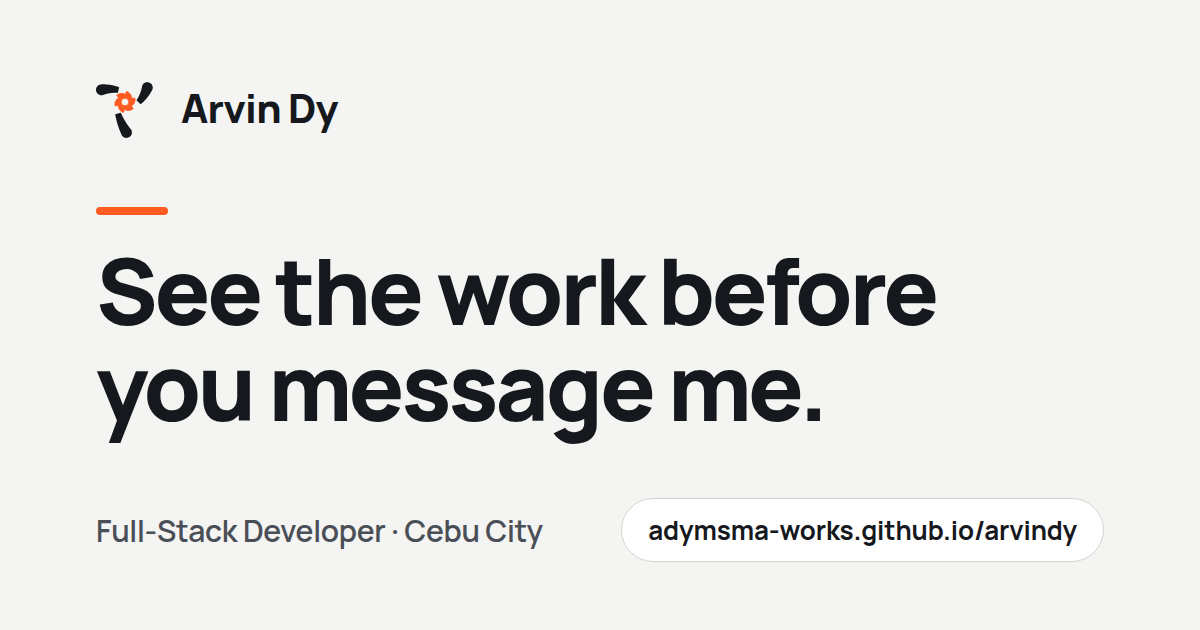
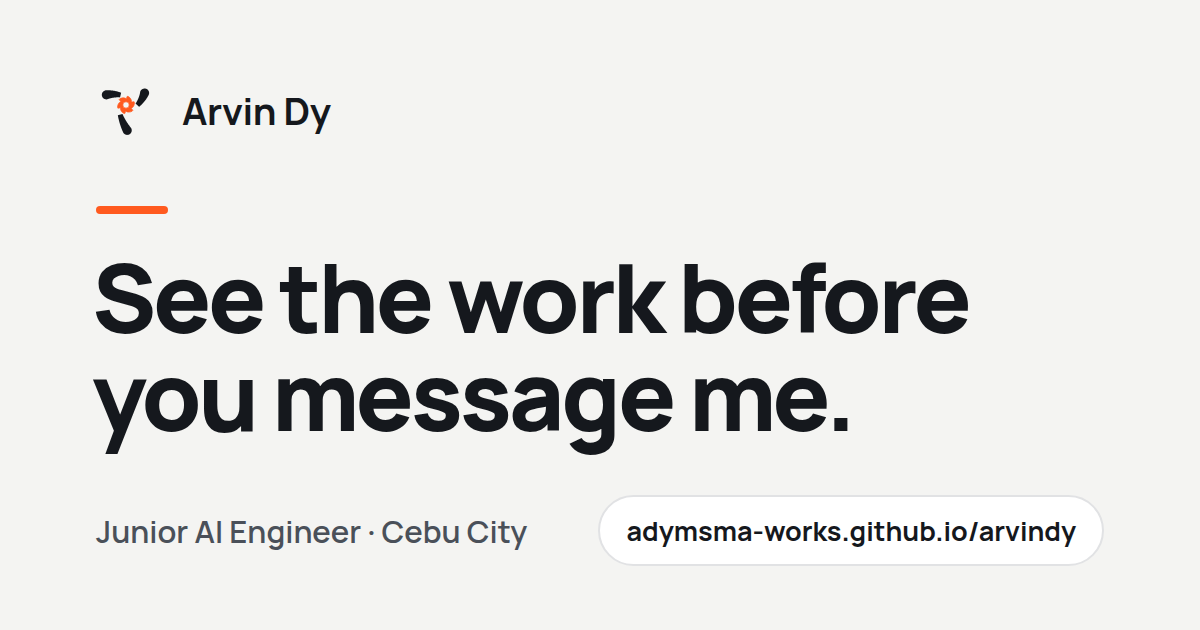
site: share image says Junior AI Engineer
og.png re-rendered with the new title (same layout); og:image:alt on all
8 pages updated to match. Source kept in docs/og-source.html so the next
change is a re-render, not a redraw.
Checked: lint exit 0, build exit 0, check passed (57 files), no
"full-stack" left in dist.

diff --git a/docs/og-source.html b/docs/og-source.html
@@ -1,0 +1,18 @@
+<!doctype html><html><head><meta charset="utf-8">
+<link href="https://fonts.googleapis.com/css2?family=Manrope:wght@600;700;800&display=swap" rel="stylesheet">
+<style>
+*{margin:0;padding:0;box-sizing:border-box}
+body{width:1200px;height:630px;background:#F4F4F2;font-family:Manrope,sans-serif;color:#15181D;position:relative;overflow:hidden}
+.brand{position:absolute;left:96px;top:80px;display:flex;align-items:center;gap:26px;font-size:38px;font-weight:700;letter-spacing:-.01em}
+.brand img{width:60px;height:60px}
+.bar{position:absolute;left:96px;top:206px;width:72px;height:8px;border-radius:4px;background:#FF5A1F}
+h1{position:absolute;left:92px;top:248px;font-size:96px;line-height:1.02;font-weight:800;letter-spacing:-.035em}
+.meta{position:absolute;left:96px;right:96px;bottom:64px;display:flex;justify-content:space-between;align-items:center}
+.role{font-size:31px;font-weight:600;color:#4A5059}
+.url{font-size:27px;font-weight:700;background:#fff;border:2px solid #E1E2E4;border-radius:40px;padding:15px 26px}
+</style></head><body>
+<div class="brand"><img src="../public/brand/yapliong-symbol-dark.svg" alt="">Arvin Dy</div>
+<div class="bar"></div>
+<h1>See the work before<br>you message me.</h1>
+<div class="meta"><span class="role">Junior AI Engineer · Cebu City</span><span class="url">adymsma-works.github.io/arvindy</span></div>
+</body></html>

diff --git a/about/index.html b/about/index.html
@@ -20,7 +20,7 @@
     <meta property="og:image" content="{{SITE_URL}}og.png" />
     <meta property="og:image:width" content="1200" />
     <meta property="og:image:height" content="630" />
-    <meta property="og:image:alt" content="Light card with the blade logo and the name Arvin Dy, the headline See the work before you message me, Full-Stack Developer, Cebu City, and the address {{SITE_DISPLAY}}." />
+    <meta property="og:image:alt" content="Light card with the blade logo and the name Arvin Dy, the headline See the work before you message me, Junior AI Engineer, Cebu City, and the address {{SITE_DISPLAY}}." />
     <meta name="twitter:card" content="summary_large_image" />
 
     <!-- Reveal-on-scroll only runs with JS; without it every section stays visible. -->

diff --git a/contact/index.html b/contact/index.html
@@ -20,7 +20,7 @@
     <meta property="og:image" content="{{SITE_URL}}og.png" />
     <meta property="og:image:width" content="1200" />
     <meta property="og:image:height" content="630" />
-    <meta property="og:image:alt" content="Light card with the blade logo and the name Arvin Dy, the headline See the work before you message me, Full-Stack Developer, Cebu City, and the address {{SITE_DISPLAY}}." />
+    <meta property="og:image:alt" content="Light card with the blade logo and the name Arvin Dy, the headline See the work before you message me, Junior AI Engineer, Cebu City, and the address {{SITE_DISPLAY}}." />
     <meta name="twitter:card" content="summary_large_image" />
 
     <!-- Reveal-on-scroll only runs with JS; without it every section stays visible. -->

diff --git a/resume/index.html b/resume/index.html
@@ -20,7 +20,7 @@
     <meta property="og:image" content="{{SITE_URL}}og.png" />
     <meta property="og:image:width" content="1200" />
     <meta property="og:image:height" content="630" />
-    <meta property="og:image:alt" content="Light card with the blade logo and the name Arvin Dy, the headline See the work before you message me, Full-Stack Developer, Cebu City, and the address {{SITE_DISPLAY}}." />
+    <meta property="og:image:alt" content="Light card with the blade logo and the name Arvin Dy, the headline See the work before you message me, Junior AI Engineer, Cebu City, and the address {{SITE_DISPLAY}}." />
     <meta name="twitter:card" content="summary_large_image" />
 
     <!-- Reveal-on-scroll only runs with JS; without it every section stays visible. -->

diff --git a/uses/index.html b/uses/index.html
@@ -20,7 +20,7 @@
     <meta property="og:image" content="{{SITE_URL}}og.png" />
     <meta property="og:image:width" content="1200" />
     <meta property="og:image:height" content="630" />
-    <meta property="og:image:alt" content="Light card with the blade logo and the name Arvin Dy, the headline See the work before you message me, Full-Stack Developer, Cebu City, and the address {{SITE_DISPLAY}}." />
+    <meta property="og:image:alt" content="Light card with the blade logo and the name Arvin Dy, the headline See the work before you message me, Junior AI Engineer, Cebu City, and the address {{SITE_DISPLAY}}." />
     <meta name="twitter:card" content="summary_large_image" />
 
     <!-- Reveal-on-scroll only runs with JS; without it every section stays visible. -->

diff --git a/work/bail-bonds-records/index.html b/work/bail-bonds-records/index.html
@@ -20,7 +20,7 @@
     <meta property="og:image" content="{{SITE_URL}}og.png" />
     <meta property="og:image:width" content="1200" />
     <meta property="og:image:height" content="630" />
-    <meta property="og:image:alt" content="Light card with the blade logo and the name Arvin Dy, the headline See the work before you message me, Full-Stack Developer, Cebu City, and the address {{SITE_DISPLAY}}." />
+    <meta property="og:image:alt" content="Light card with the blade logo and the name Arvin Dy, the headline See the work before you message me, Junior AI Engineer, Cebu City, and the address {{SITE_DISPLAY}}." />
     <meta name="twitter:card" content="summary_large_image" />
 
     <!-- Reveal-on-scroll only runs with JS; without it every section stays visible. -->

diff --git a/work/index.html b/work/index.html
@@ -20,7 +20,7 @@
     <meta property="og:image" content="{{SITE_URL}}og.png" />
     <meta property="og:image:width" content="1200" />
     <meta property="og:image:height" content="630" />
-    <meta property="og:image:alt" content="Light card with the blade logo and the name Arvin Dy, the headline See the work before you message me, Full-Stack Developer, Cebu City, and the address {{SITE_DISPLAY}}." />
+    <meta property="og:image:alt" content="Light card with the blade logo and the name Arvin Dy, the headline See the work before you message me, Junior AI Engineer, Cebu City, and the address {{SITE_DISPLAY}}." />
     <meta name="twitter:card" content="summary_large_image" />
 
     <!-- Reveal-on-scroll only runs with JS; without it every section stays visible. -->

diff --git a/work/pos-implementation/index.html b/work/pos-implementation/index.html
@@ -20,7 +20,7 @@
     <meta property="og:image" content="{{SITE_URL}}og.png" />
     <meta property="og:image:width" content="1200" />
     <meta property="og:image:height" content="630" />
-    <meta property="og:image:alt" content="Light card with the blade logo and the name Arvin Dy, the headline See the work before you message me, Full-Stack Developer, Cebu City, and the address {{SITE_DISPLAY}}." />
+    <meta property="og:image:alt" content="Light card with the blade logo and the name Arvin Dy, the headline See the work before you message me, Junior AI Engineer, Cebu City, and the address {{SITE_DISPLAY}}." />
     <meta name="twitter:card" content="summary_large_image" />
 
     <!-- Reveal-on-scroll only runs with JS; without it every section stays visible. -->

diff --git a/index.html b/index.html
@@ -18,7 +18,7 @@
 <meta property="og:image" content="{{SITE_URL}}og.png">
 <meta property="og:image:width" content="1200">
 <meta property="og:image:height" content="630">
-<meta property="og:image:alt" content="Light card with the blade logo and the name Arvin Dy, the headline See the work before you message me, Full-Stack Developer, Cebu City, and the address {{SITE_DISPLAY}}.">
+<meta property="og:image:alt" content="Light card with the blade logo and the name Arvin Dy, the headline See the work before you message me, Junior AI Engineer, Cebu City, and the address {{SITE_DISPLAY}}.">
 <meta name="twitter:card" content="summary_large_image">
 <script type="application/ld+json">{{JSON_LD}}</script>
 <link rel="preconnect" href="https://fonts.googleapis.com">
